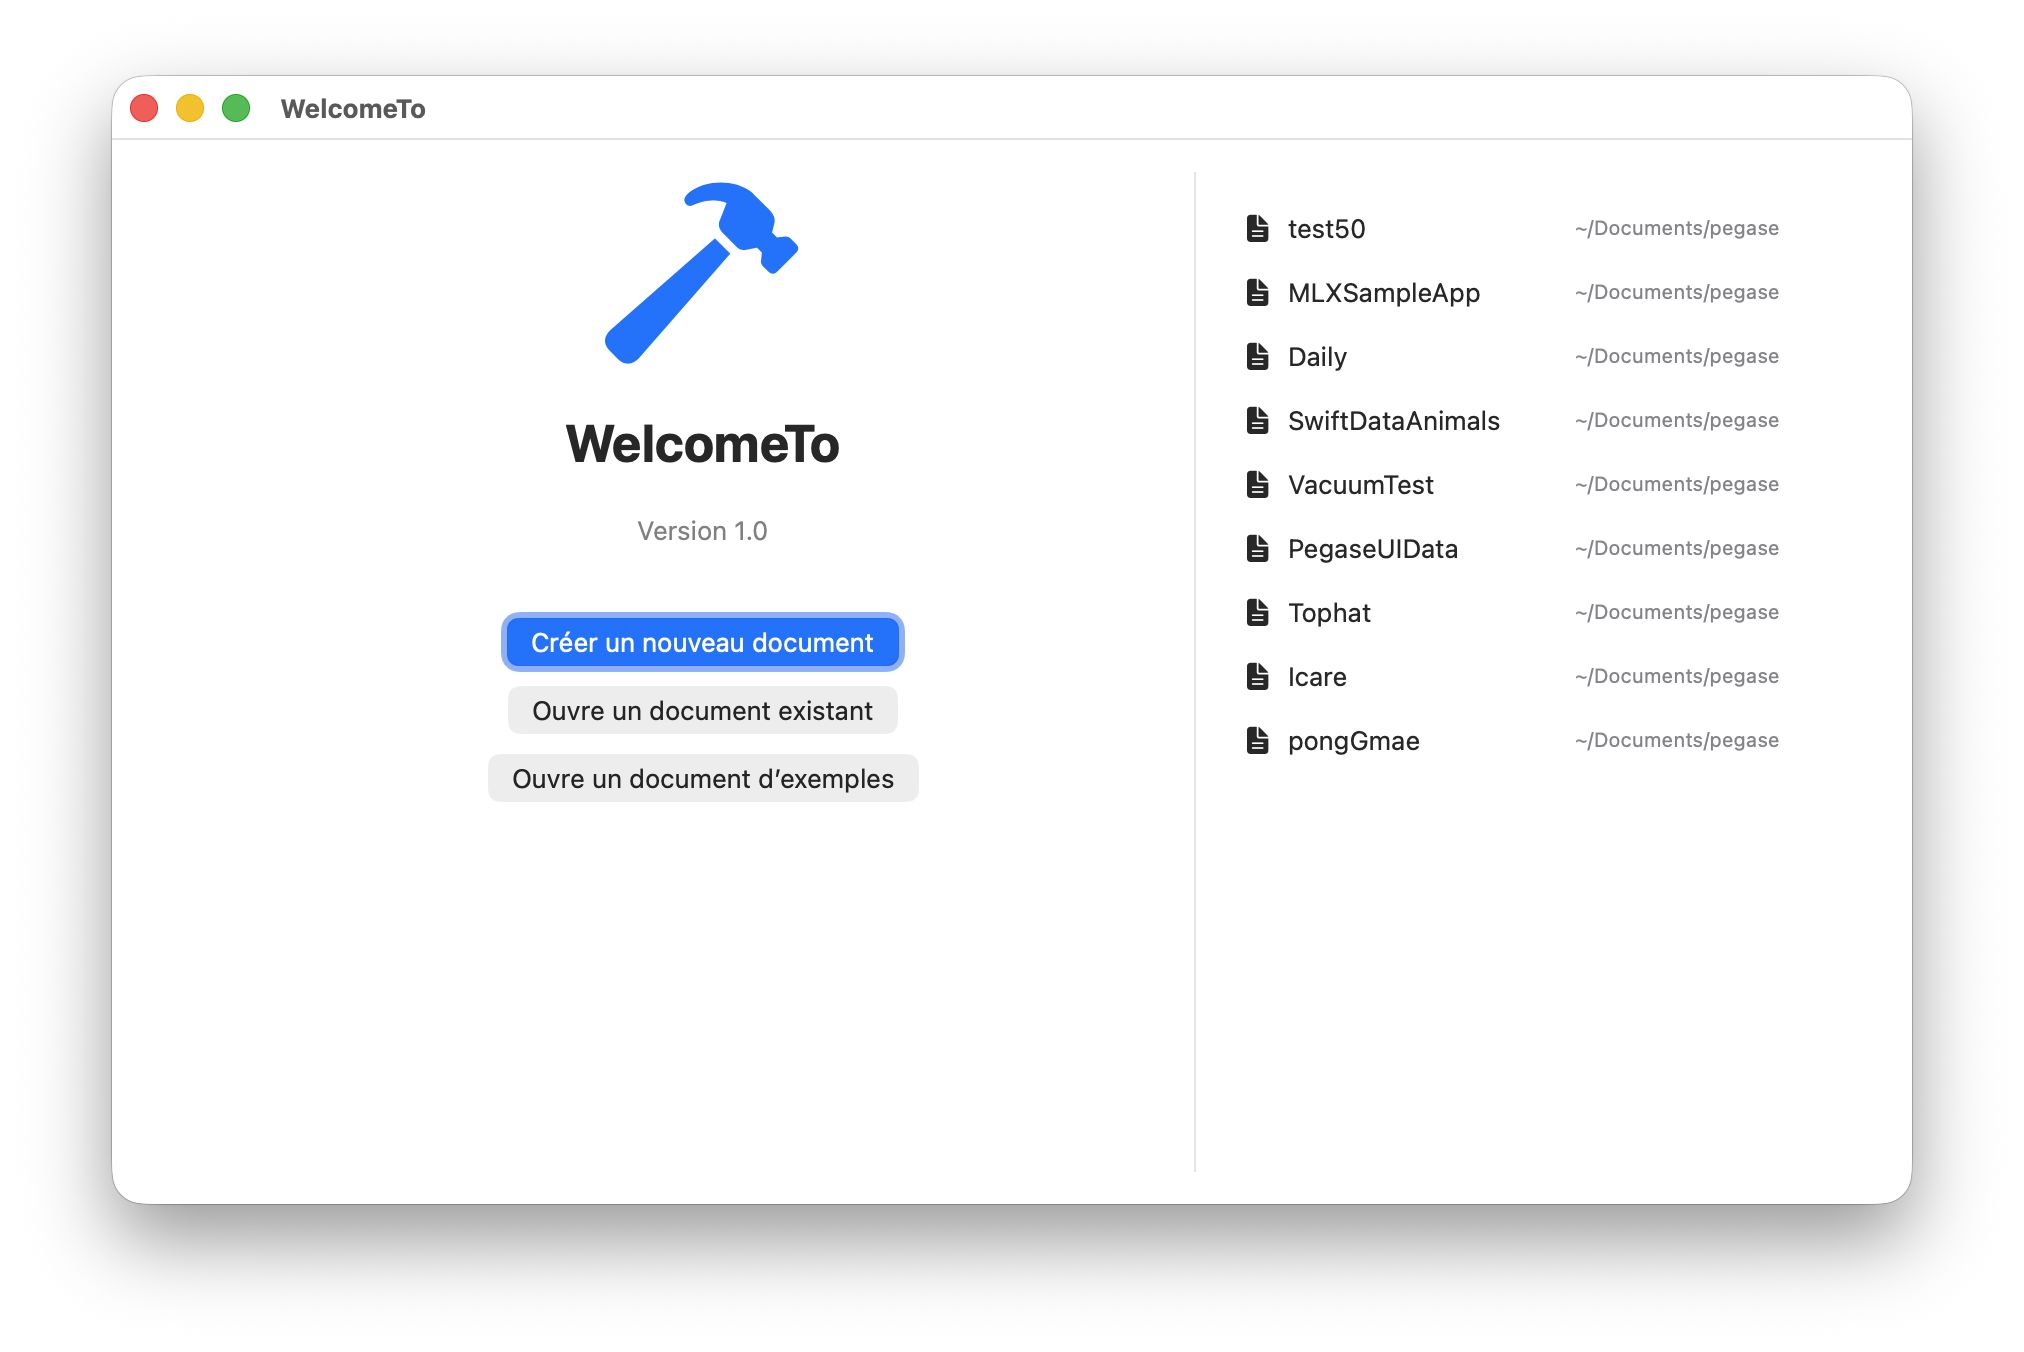
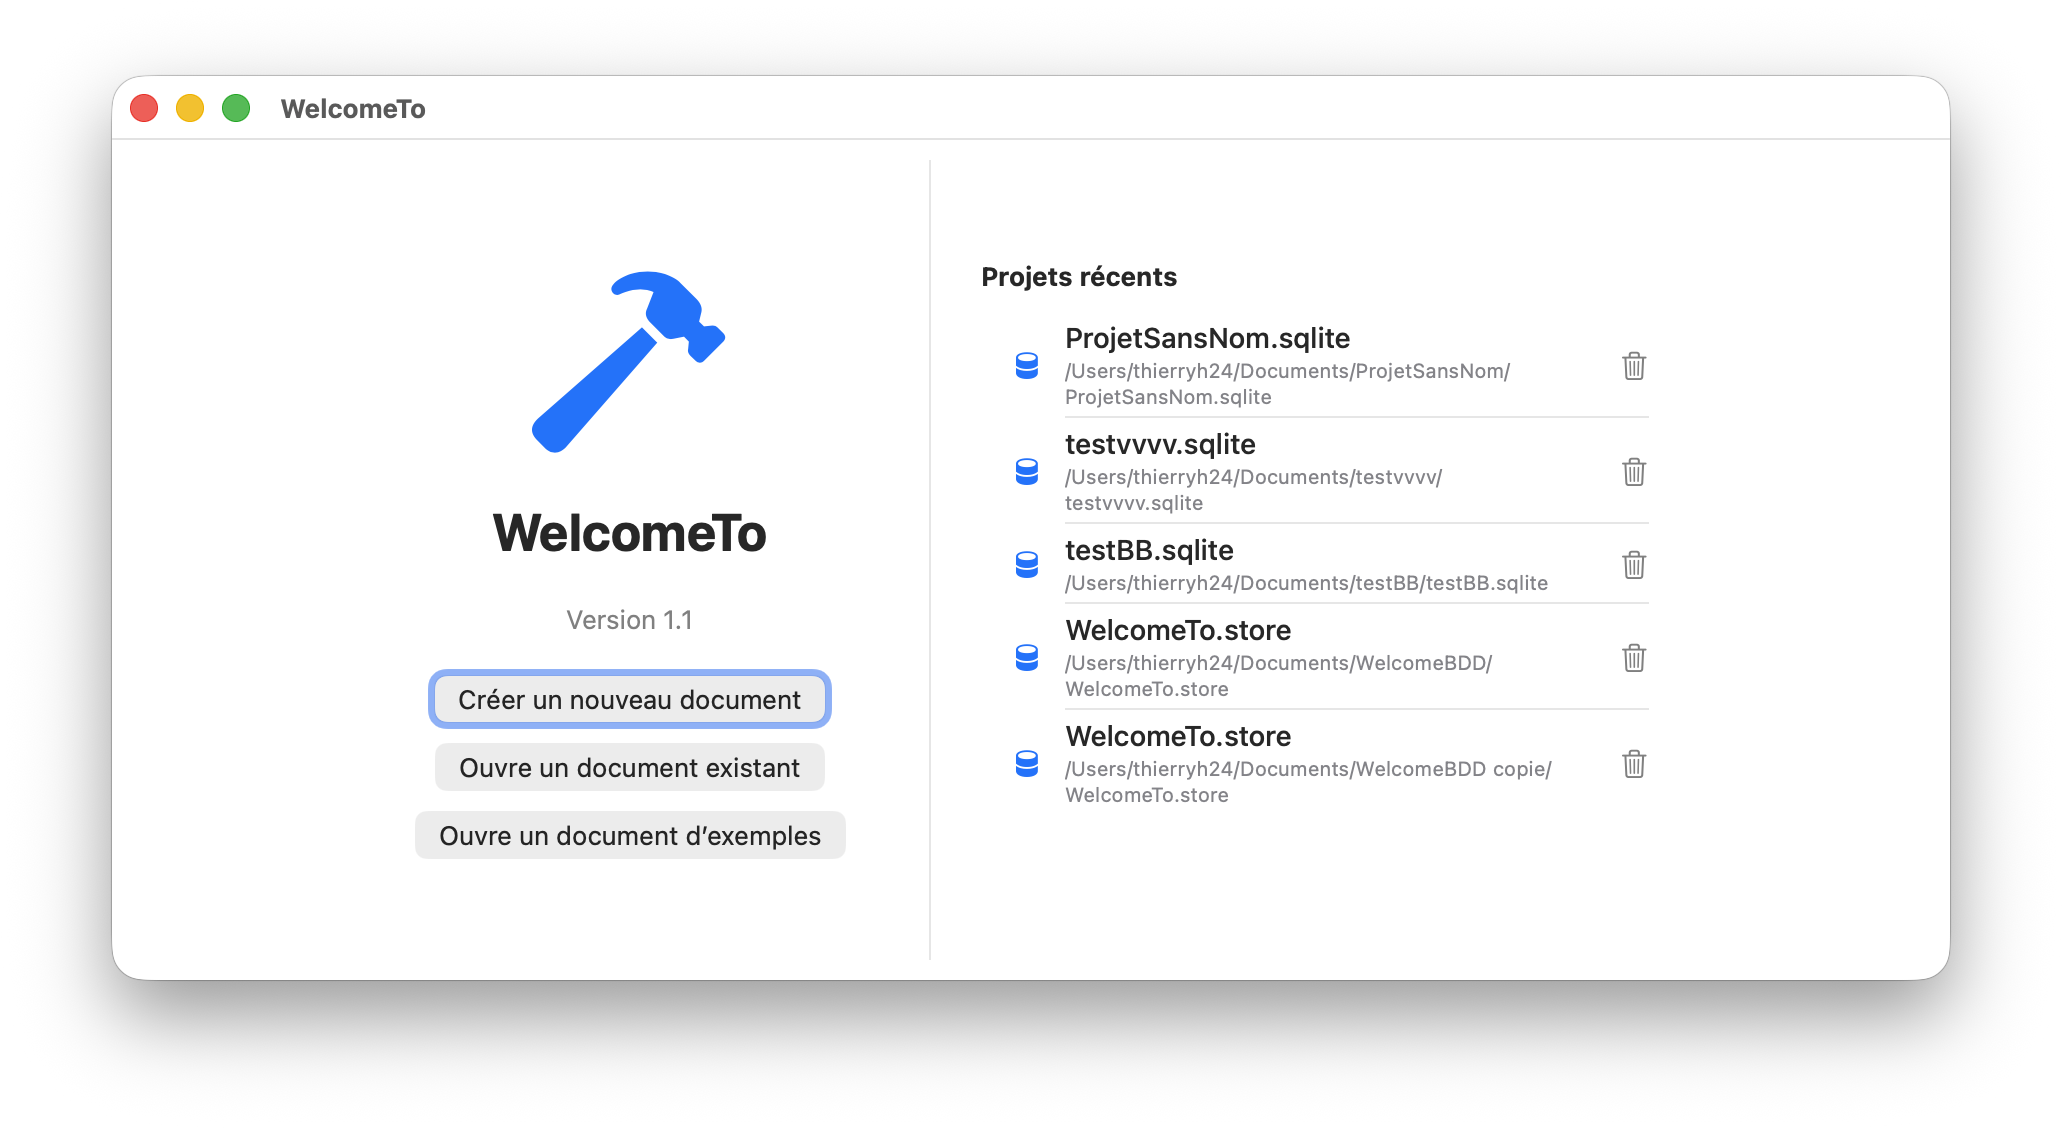
com250809AA

diff --git a/WelcomeTo/Views/WelcomeWindowView.swift b/WelcomeTo/Views/WelcomeWindowView.swift
@@ -172,15 +172,18 @@ private struct RecentProjectRowView: View {
         HStack(spacing: 12) {
             Image(systemName: "cylinder.split.1x2.fill")
                 .foregroundColor(.accentColor)
+                .imageScale(.large)
             
             VStack(alignment: .leading, spacing: 2) {
+                // Nom du projet
                 Text(project.name)
                     .font(.system(size: 14, weight: .medium))
                     .foregroundColor(.primary)
                 
-                Text(project.url.path)
-                    .foregroundColor(.gray)
-                    .font(.caption)
+                // Chemin avec tilde
+                Text((project.url.path as NSString).abbreviatingWithTildeInPath)
+                    .font(.system(size: 12))
+                    .foregroundColor(.secondary)
             }
             
             Spacer()

diff --git a/WelcomeTo/Views/ContentView.swift b/WelcomeTo/Views/ContentView.swift
@@ -6,8 +6,6 @@
 //  Created by thierryH24 on 04/08/2025.
 //
 
-
-
 import SwiftUI
 import SwiftData
 
